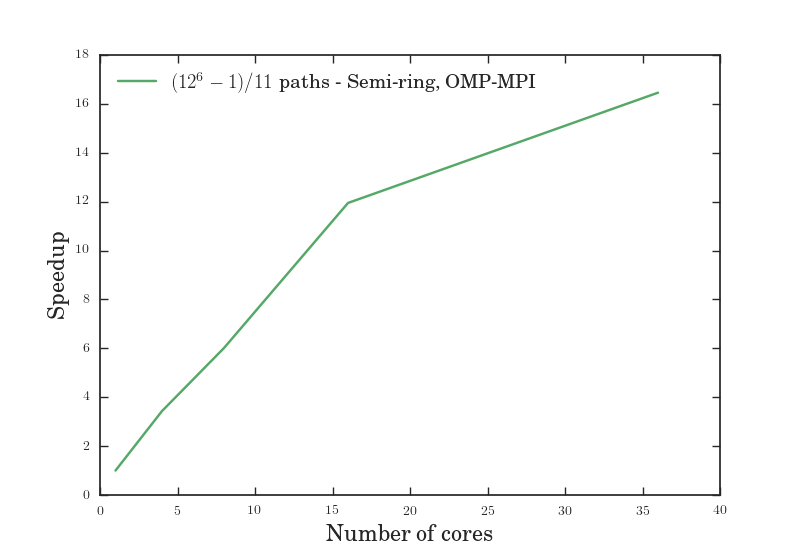
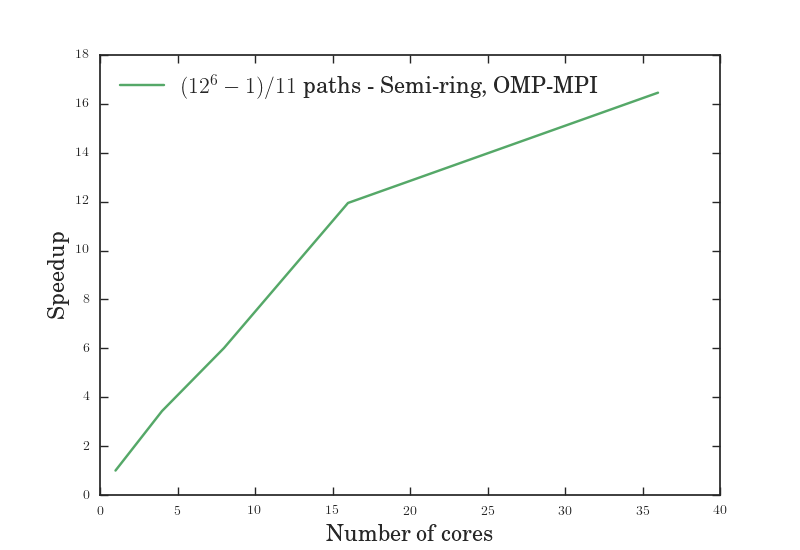
increased fontsize in figure and changed bold font

Changed region(s): [[0.1562, 0.1236, 0.75, 0.1855]]

diff --git a/index.html b/index.html
@@ -41,7 +41,7 @@
 
             <p>A potential solution is to place the defects near cavities on resonance with the desired transitions<sup>[<a href="#ref3">3</a>]</sup>. Positioning defects, however, is a non-trivial endeavor. The defects would be created at roughly the desired location using the process of focused ion beam implantation, but this process creates a lot of damage. In order to heal the damage the sample is annealed, causing the defects to diffuse and some to be lost through conversion to other species. The purpose of this study is then to assess the probability that the negatively charged silicon vacancy defect in 4H-SiC would be optimally positioned and exist given a certain initial position and a certain number of time steps.</p>
 
-            <p><strong>In Short...</strong> We can fire beams at a crystal and create holes in it and if we heal the crystal by heating and cooling, some of these holes move. In diamond, analogous kinds of holes have the potential to be used as a quantum storage device. By modelling this movement in SiC, we can gain insight into memory storage for a quantum computer!</p>
+            <p><b>In Short...</b> We can fire beams at a crystal and create holes in it and if we heal the crystal by heating and cooling, some of these holes move. In diamond, analogous kinds of holes have the potential to be used as a quantum storage device. By modelling this movement in SiC, we can gain insight into memory storage for a quantum computer!</p>
 
             <hr/>
 
